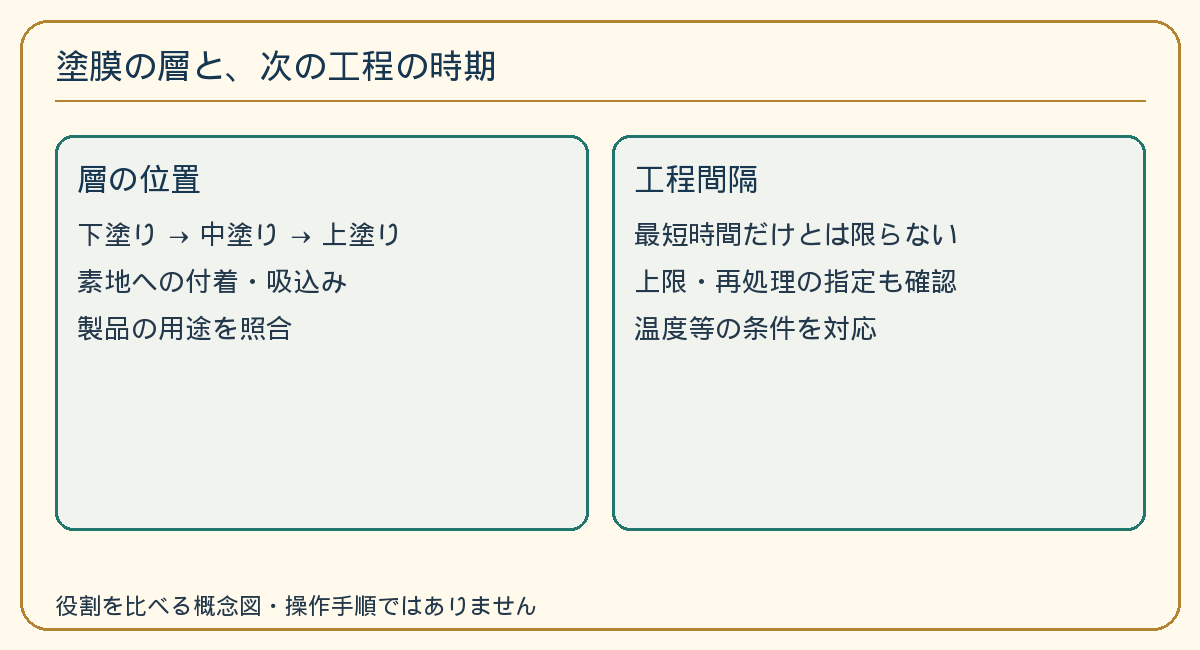
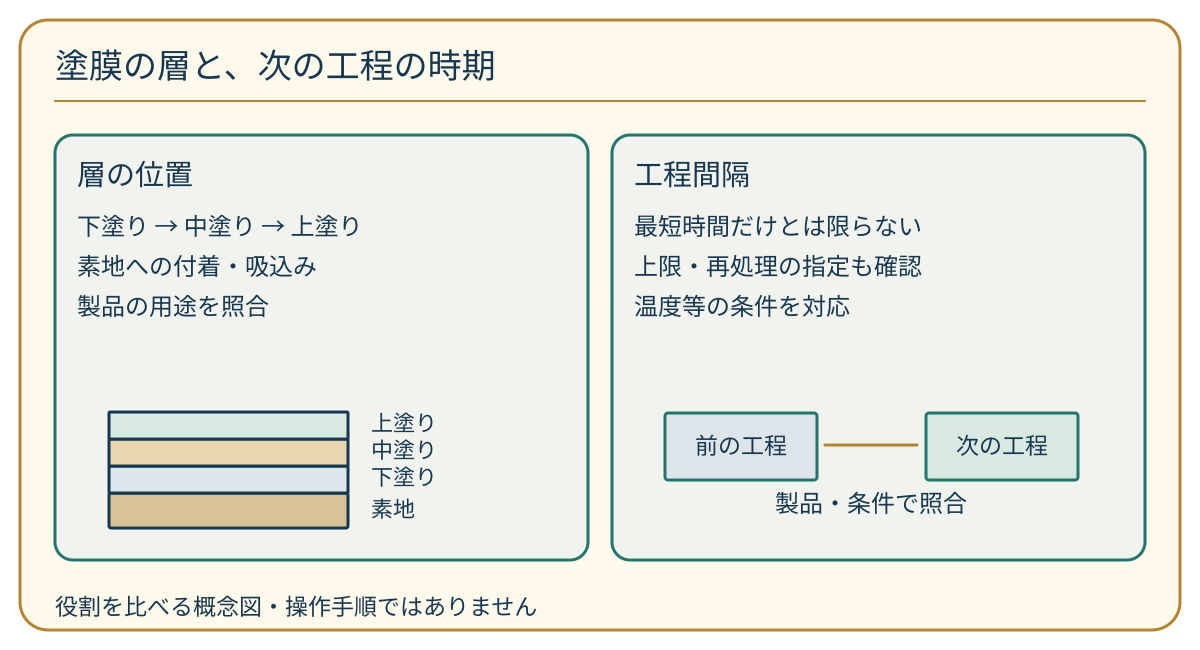
fix(kensetsu): illustrate coating wood frame and earth wall relationships

diff --git a/scripts/kensetsu-authoring/draw-royal-differential-group08.py b/scripts/kensetsu-authoring/draw-royal-differential-group08.py
@@ -1,0 +1,37 @@
+"""Layer position, timber members and earthen-wall substrate; no installation design."""
+from pathlib import Path
+base=Path(__file__).with_name('draw-royal-differential-group05.py').read_text().split('# Material handling')[0]
+exec(base.replace('range(15,23)','[25,26,30]').replace('assert len(spec)==8','assert len(spec)==3'))
+OUT=ROOT/'docs/ssw-workspace/kensetsu/royal-differential-20261107/group08'
+OUT.mkdir(parents=True,exist_ok=True)
+
+# The same section distinguishes substrate and three coating positions. No scale.
+b=rect(109,493,239,35,'#D8C398',NAVY,2)
+for y,fill in [(466,'#DDE5EA'),(439,'#E8D6AE'),(412,'#D8E9E1')]:b+=rect(109,y,239,27,fill,NAVY,1)
+for y,label in [(431,'上塗り'),(458,'中塗り'),(485,'下塗り'),(517,'素地')]:b+=text(371,y,label,22)
+b+=rect(665,413,152,67,'#DDE5EA',TEAL,3)+rect(926,413,152,67,'#D8E9E1',TEAL,3)
+b+=text(741,454,'前の工程',23,'middle')+text(1002,454,'次の工程',23,'middle')
+b+=line(825,445,917,445,GOLD,3)+text(871,512,'製品・条件で照合',24,'middle')
+sheet(25,b)
+
+# Continuous versus storey-height posts. Partial roof section and temporary brace.
+b=rect(88,510,274,15,'#D8C398',NAVY,1)+rect(88,446,274,14,'#D8C398',NAVY,1)
+b+=rect(111,389,17,121,'#D8C398',NAVY,1)+rect(306,389,17,57,'#D8C398',NAVY,1)+rect(306,460,17,50,'#D8C398',NAVY,1)
+b+=text(151,412,'通し柱',21)+text(237,493,'管柱',21)
+b+='<path d="M468 444 L590 386 L711 444" fill="none" stroke="#173750" stroke-width="7"/>'
+b+=rect(583,384,14,20,'#E8D6AE',NAVY,1)+rect(511,418,14,20,'#E8D6AE',NAVY,1)+rect(655,418,14,20,'#E8D6AE',NAVY,1)
+b+=line(590,405,590,478,GOLD,9)+line(479,482,700,482,NAVY,8)
+b+=text(590,521,'垂木・母屋・小屋束',21,'middle')
+b+=line(847,396,847,518,NAVY,8)+line(1093,396,1093,518,NAVY,8)+line(847,396,1093,396,NAVY,8)+line(847,518,1093,518,NAVY,8)+line(847,518,1093,396,GOLD,5)
+b+=rect(839,482,16,35,'#DDE5EA',TEAL,1)+text(971,549,'部分図・接合設計ではない',20,'middle')
+sheet(26,b)
+
+# A lattice is the substrate, whereas the adjacent section shows earthen layers.
+b=''
+for x in range(131,511,47):b+=line(x,397,x,520,'#B38432',9)
+for y in range(404,521,28):b+=line(119,y,514,y,'#769A76',9)
+b+=text(316,551,'小舞の面を見た例',21,'middle')
+b+=rect(697,403,156,119,'#BBA482',NAVY,1)+rect(853,403,97,119,'#E8D6AE',NAVY,1)+rect(950,403,79,119,'#D8E9E1',NAVY,1)
+b+=line(718,414,718,511,TEAL,7)
+for x,label in [(718,'小舞'),(797,'荒壁'),(901,'中塗り'),(993,'上塗り')]:b+=text(x,551,label,21,'middle')
+sheet(30,b)
